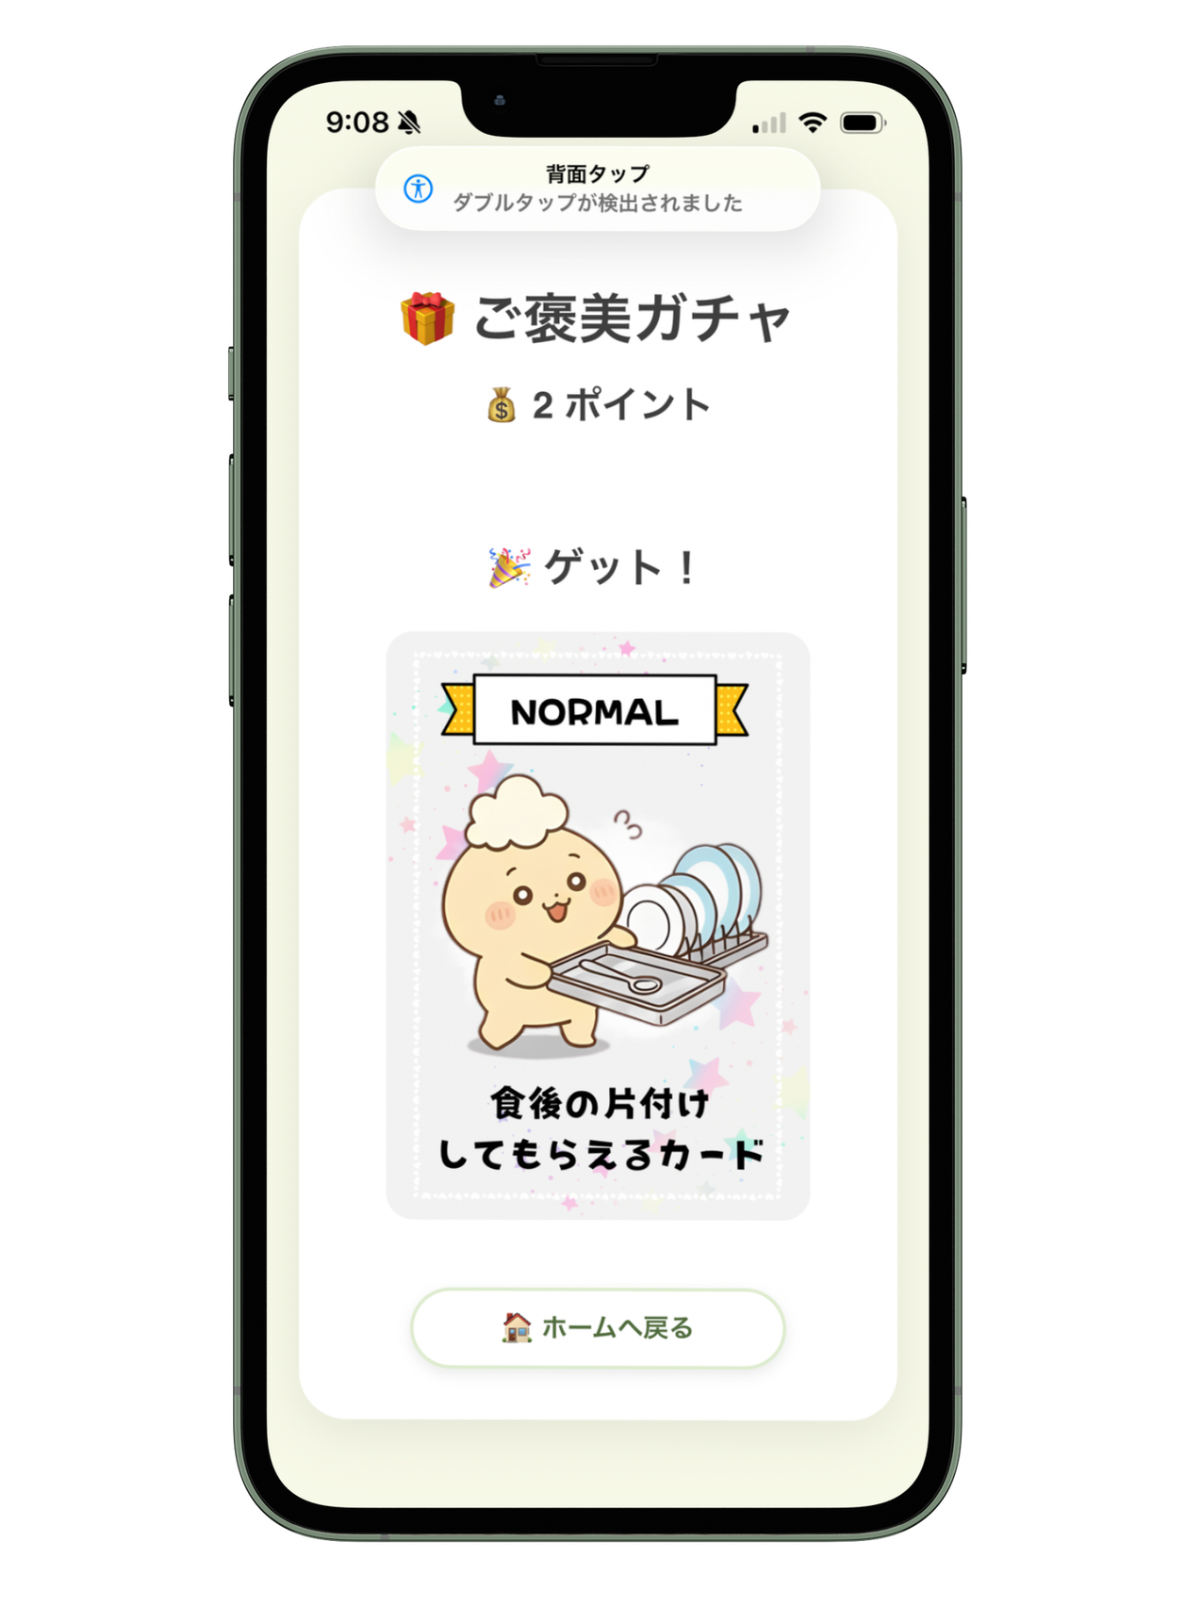
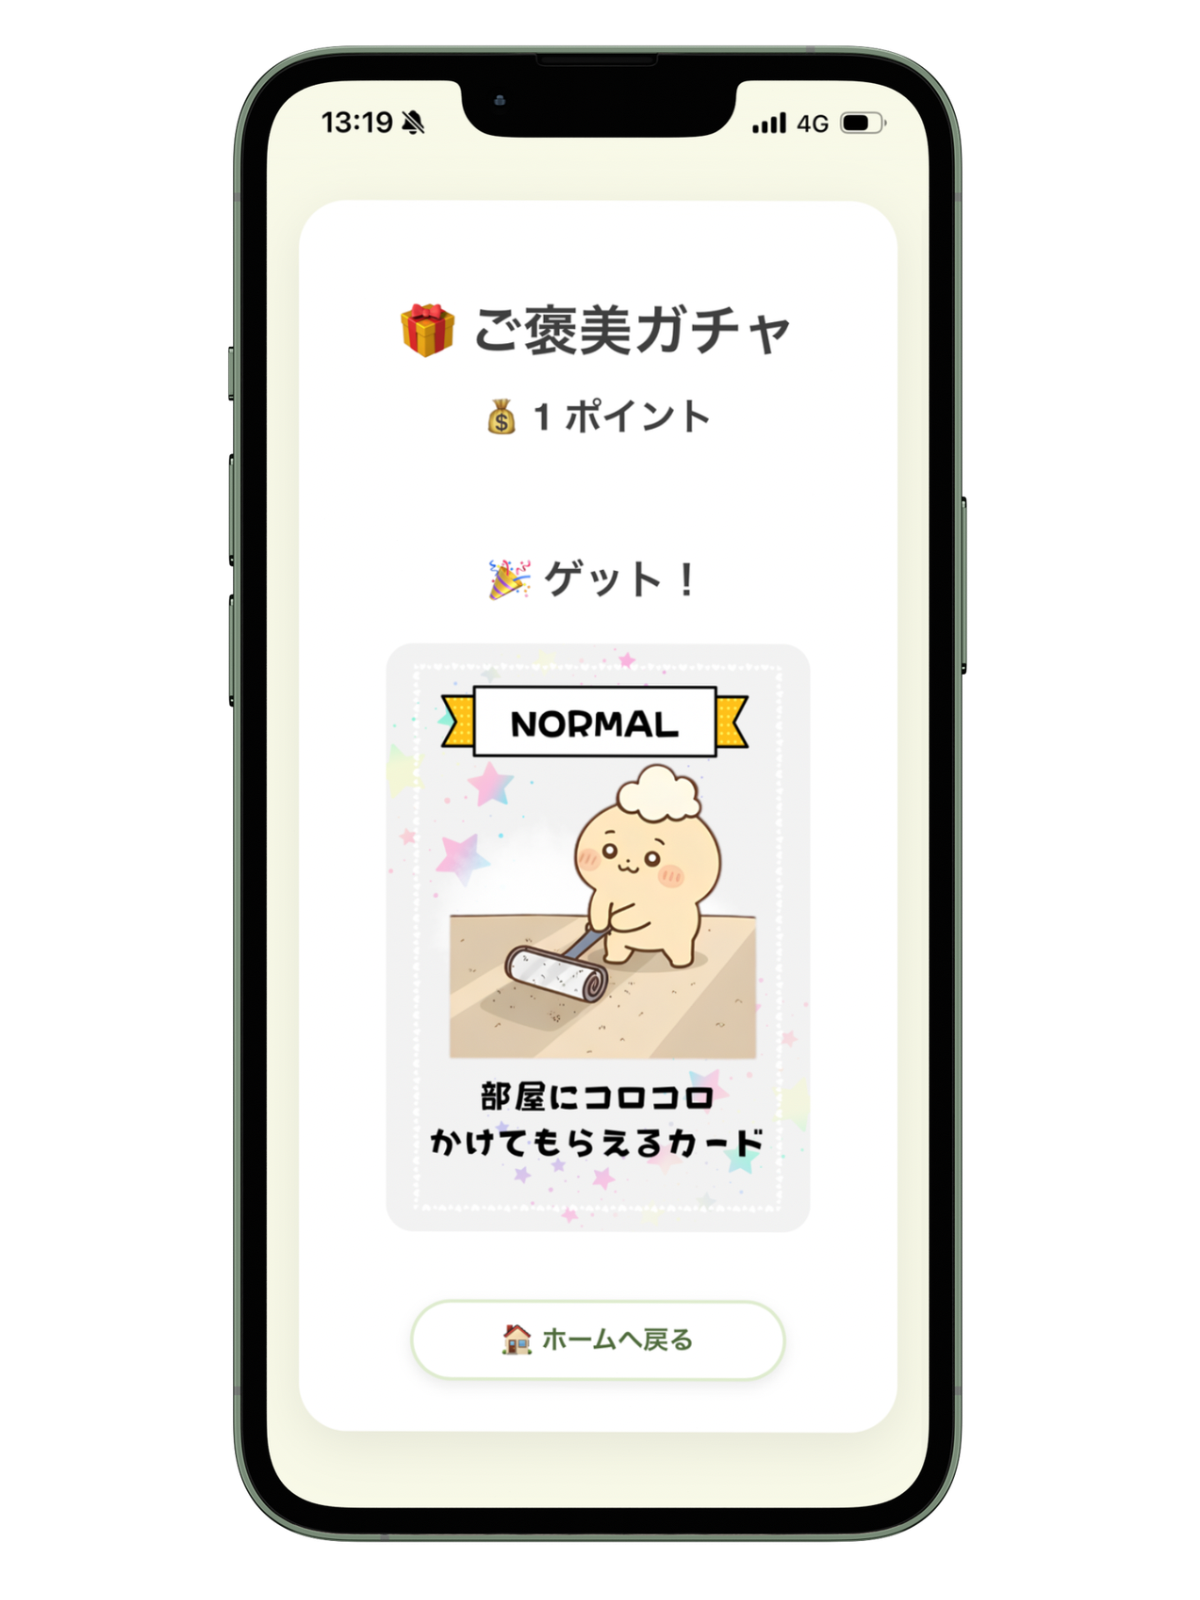
Fix task history and update about page image

diff --git a/app/controllers/task_histories_controller.rb b/app/controllers/task_histories_controller.rb
@@ -8,7 +8,7 @@ class TaskHistoriesController < ApplicationController
                    .joins(:family_member)
                    .where(family_members: { family_id: family.id })
                    .includes(:task, family_member: :user)
-                   .order(completed_at: :desc)
+                   .order(completed_at: :desc, id: :desc)
                    .page(params[:page])
                    .per(10)
   end
